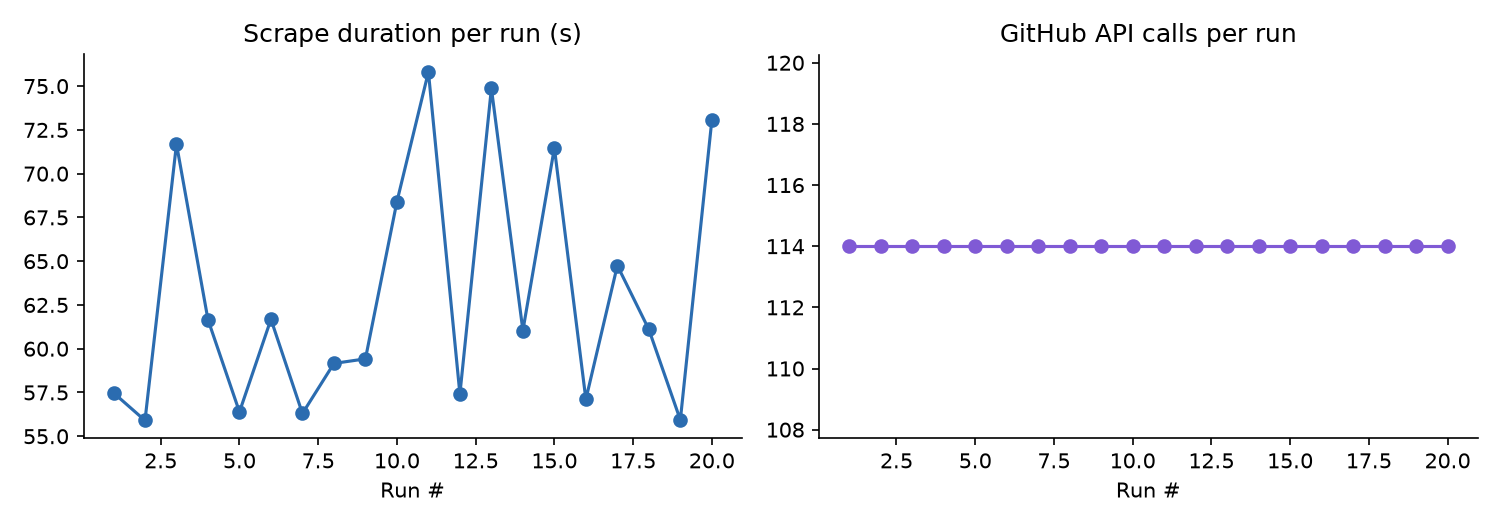
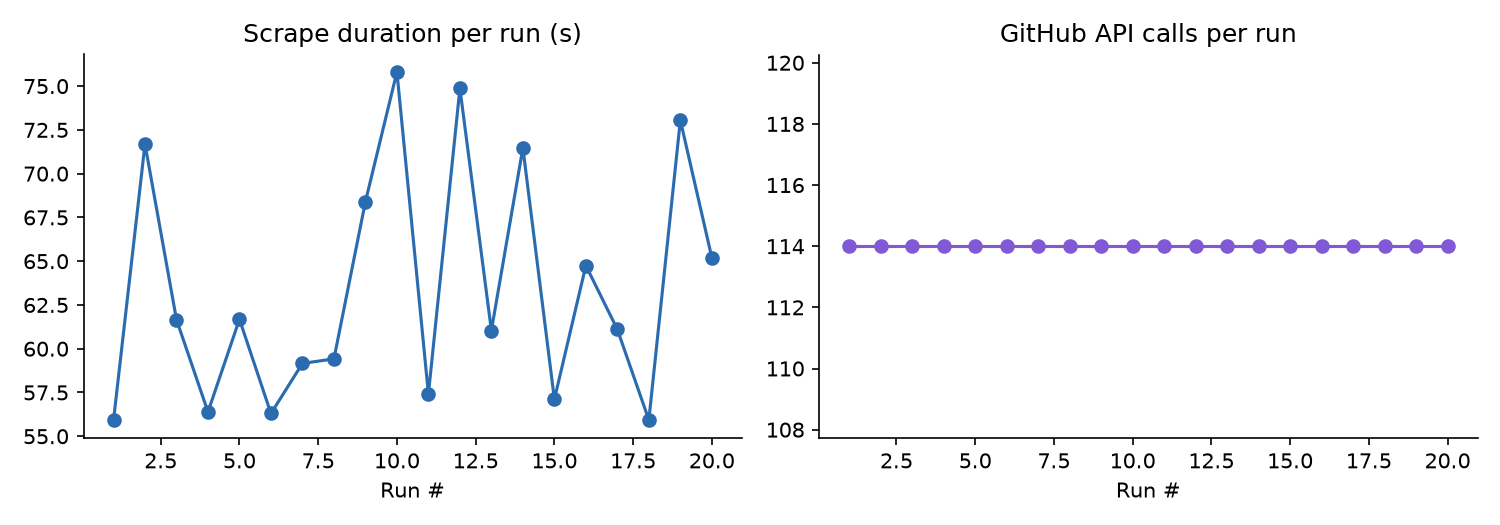
Weekly issue tracker refresh

diff --git a/README.md b/README.md
@@ -81,7 +81,7 @@ See [CONTRIBUTING.md](CONTRIBUTING.md) for the full contributor workflow — inc
 
 <!-- TRACKER:START -->
 
-_Last updated: 2026-08-23 19:08 UTC_
+_Last updated: 2026-08-23 19:32 UTC_
 
 _Tracking **18** upstream repos, **384** relevant open issues._
 
@@ -296,7 +296,7 @@ _Tracking **18** upstream repos, **384** relevant open issues._
 
 <!-- METRICS:START -->
 
-_Last run: 2026-08-23 19:06 UTC, took **73.0s**, **114** GitHub API calls, **4658/5000** rate limit remaining._
+_Last run: 2026-08-23 19:30 UTC, took **65.2s**, **114** GitHub API calls, **4886/5000** rate limit remaining._
 
 ![Scrape metrics trend](assets/metrics_trend.png)
 
